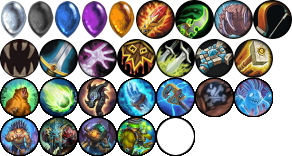
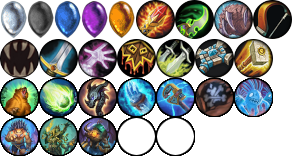
feat(clues): update types images

Changed region(s): [[0.1233, 0.7436, 0.2774, 1.0], [0.4007, 0.7436, 0.5548, 1.0]]

diff --git a/style.css b/style.css
@@ -982,7 +982,7 @@ td.tableCardName {
 }
 
 .clueIcon.type.typeless {
-    background-position: -117px -117px;
+    background-position: 0 -39px;
 }
 
 #gameEndCards img {
